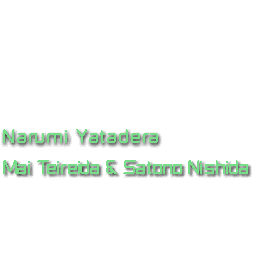
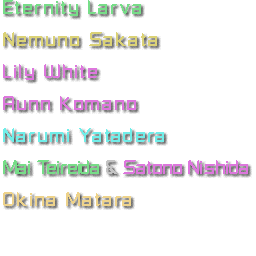
trying out colors

diff --git a/BossDisplayFixes/files.js b/BossDisplayFixes/files.js
@@ -1,7 +1,7 @@
 {
 	"Kingdom Sans ms_0.ttf": null,
 	"PowerClear.ttf": null,
-	"README.md": 2303859941,
+	"README.md": 751168448,
 	"RussellSquare.ttf": 1572031365,
 	"RussellSquareth.ttf": 1798953345,
 	"global.js": 327920362,
@@ -537,7 +537,7 @@
 	"th16/bullet/etama7a.png": null,
 	"th16/bullet/item.png": 1762384270,
 	"th16/face/enemy7/face07no.png": null,
-	"th16/front/ename.png": 3568440738,
+	"th16/front/ename.png": 2058090690,
 	"th16/front/front00.png": null,
 	"th16/front/front01.png": null,
 	"th16/front/lifebar.png": null,

diff --git a/BraviOCOkina/files.js b/BraviOCOkina/files.js
@@ -214,8 +214,8 @@
 	"th16/face/enemy7/face07no.png": 3815821921,
 	"th16/face/enemy7/face07pr.png": 3068483995,
 	"th16/face/enemy7/face07sw.png": 3189024986,
-	"th16/front/ename.png": 1258887590,
-	"th16/front/enameSt06mbs.png": 636174236,
+	"th16/front/ename.png": 3406039124,
+	"th16/front/enameSt06mbs.png": 1081741943,
 	"th16/front/front00.png": 1242448052,
 	"th16/front/logo/st06logo.png": 2362231325,
 	"th16/front/logo/st07logo.png": 1810217019,

diff --git a/Braviretex/files.js b/Braviretex/files.js
@@ -558,7 +558,7 @@
 	"th16/bullet/item.png": 1762384270,
 	"th16/face/enemy7/face07no.png": 2819190265,
 	"th16/front.anm": 2692842803,
-	"th16/front/ename.png": 3568440738,
+	"th16/front/ename.png": 2058090690,
 	"th16/front/front00.png": 521864181,
 	"th16/front/front01.png": 608463999,
 	"th16/front/lifebar.png": 454035673,

diff --git a/BossDisplayFixes/README.md b/BossDisplayFixes/README.md
@@ -87,6 +87,8 @@ TH16:
 
 - The explosion heard during Narumi spell2 when she spawns her sun actually sounds like one now, like with Utsuho.
 
+- Recolored the top left name of each boss/midboss to have the color correspond to the season stage or main color of the character.
+
 TH16.5:
 
 - Fixes Okina's Nightmare Saturday spell background so that it appears the same way as in the Extra Stage of TH16.
